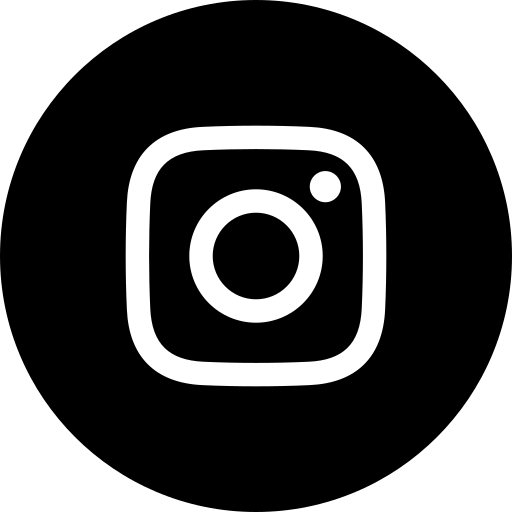
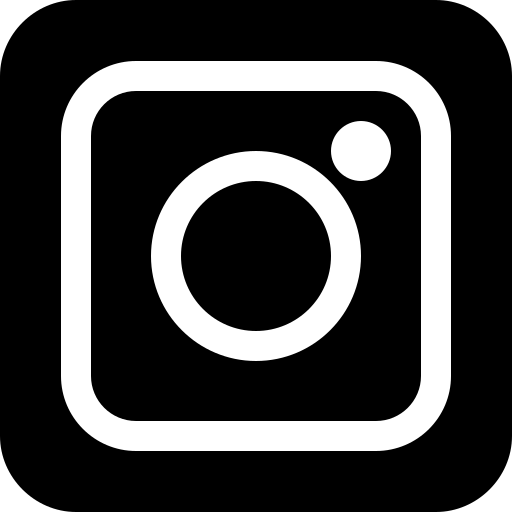
Adding social media links in the menu
Took 46 minutes

diff --git a/src/css/hamburger_menu.css b/src/css/hamburger_menu.css
@@ -16,6 +16,74 @@
     background: transparent;
 }
 
+.socialMedias-Wrapper{
+    position: absolute;
+    display: flex;
+    flex-direction: row;
+    justify-content: space-evenly;
+    align-items: center;
+
+    bottom: 5%;
+    right: 5%;
+
+    gap: 3vw;
+}
+
+.socialMedias-Wrapper a{
+
+    display: flex;
+    justify-content: center;
+    align-items: center;
+
+
+    text-decoration: none;
+    overflow: hidden;
+
+    padding: 1rem 0;
+    width: 5vw;
+    height: 5vh;
+
+    background: #121315;
+    background-size: 200%;
+    color: #E6E6EB;
+    border-radius: 2rem;
+
+    border: none;
+}
+
+.socialMedias-Wrapper a:hover::before {
+    transform: scaleX(1);
+}
+
+
+.socialMedias-Wrapper a::before {
+    content: '';
+    position: absolute;
+    overflow: hidden;
+    transform: scaleX(0);
+    transform-origin: 0 50%;
+    width: inherit;
+    height: 8vh;
+    border-radius: inherit;
+    background: linear-gradient(
+            82.3deg,
+            #36364410.8%,
+            #E0E0E5 94.3%
+    );
+    transition: all 0.4s;
+}
+
+.socialMedias-Wrapper a img{
+    position: relative;
+    z-index: 1;
+
+    width: auto;
+    height: 5vh;
+
+    -webkit-filter: grayscale(1) invert(1);
+    filter: grayscale(1) invert(1);
+}
+
 /* Menu opened layout */
 
 .menuLayout{

diff --git a/index.html b/index.html
@@ -47,9 +47,12 @@
 
         </div>
 
-        <div class="contentMenu">
 
-
+        <div class="socialMedias-Wrapper">
+            <a href="https://www.facebook.com/karinestylistesalon" target="_blank" class="hovered"><img src="image/social-media/facebook.png" draggable="false" alt=""></a>
+            <a href="https://instagram.com/karinestylistesalon?igshid=YmMyMTA2M2Y=" target="_blank" class="hovered"><img src="image/social-media/instagram.png" draggable="false" alt=""></a>
+            <a href="https://vm.tiktok.com/@karinestyliste" target="_blank" class="hovered"><img src="image/social-media/tik-tok.png" draggable="false" alt=""></a>
+            <a href="https://www.youtube.com/@karinestyliste1689" target="_blank" class="hovered"><img src="image/social-media/youtube.png" draggable="false" alt=""></a>
         </div>
 
     </div>
@@ -119,7 +122,11 @@
     </div>
 
     <footer>
+        <div class="contactFooter"></div>
 
+        <div class="menuFooter"></div>
+
+        <div class="policyFooter"></div>
 
     </footer>
 

diff --git a/src/css/desktop_home.css b/src/css/desktop_home.css
@@ -279,24 +279,14 @@
 /* footer */
 
 footer {
+    display: flex;
+    flex-direction: column;
+
+    align-items: center;
+    justify-content: space-evenly;
+
     height: 30vh;
     width: 100vw;
-}
 
-@keyframes fadeIn {
-    0% {
-        opacity: 0;
-    }
-    100% {
-        opacity: 1;
-    }
-}
 
-@keyframes fadeOut {
-    0% {
-        opacity: 1;
-    }
-    100% {
-        opacity: 0;
-    }
 }
